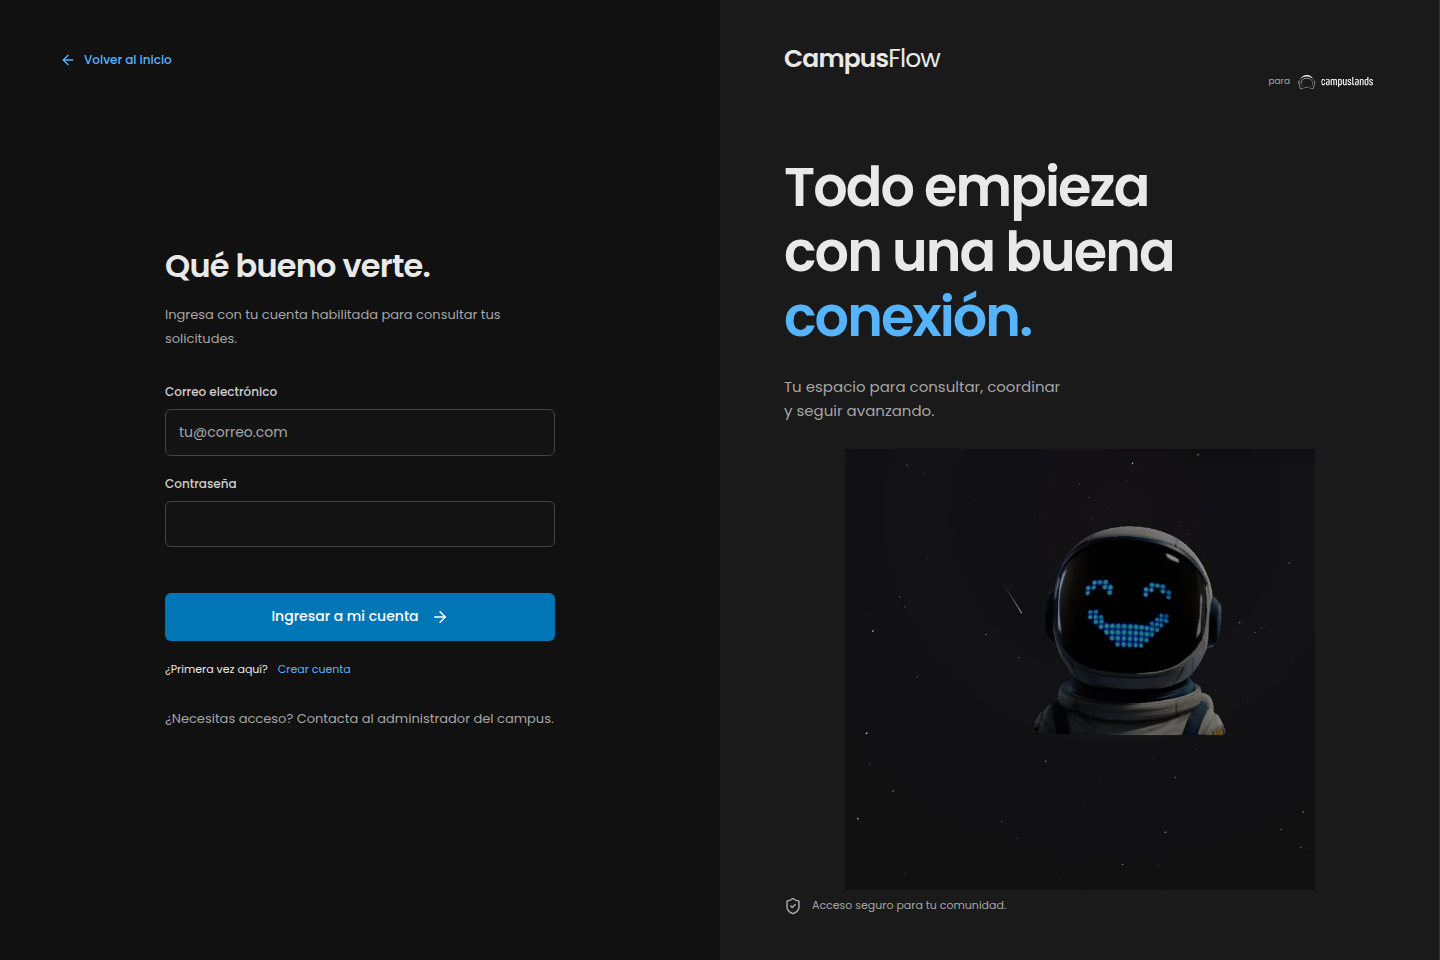
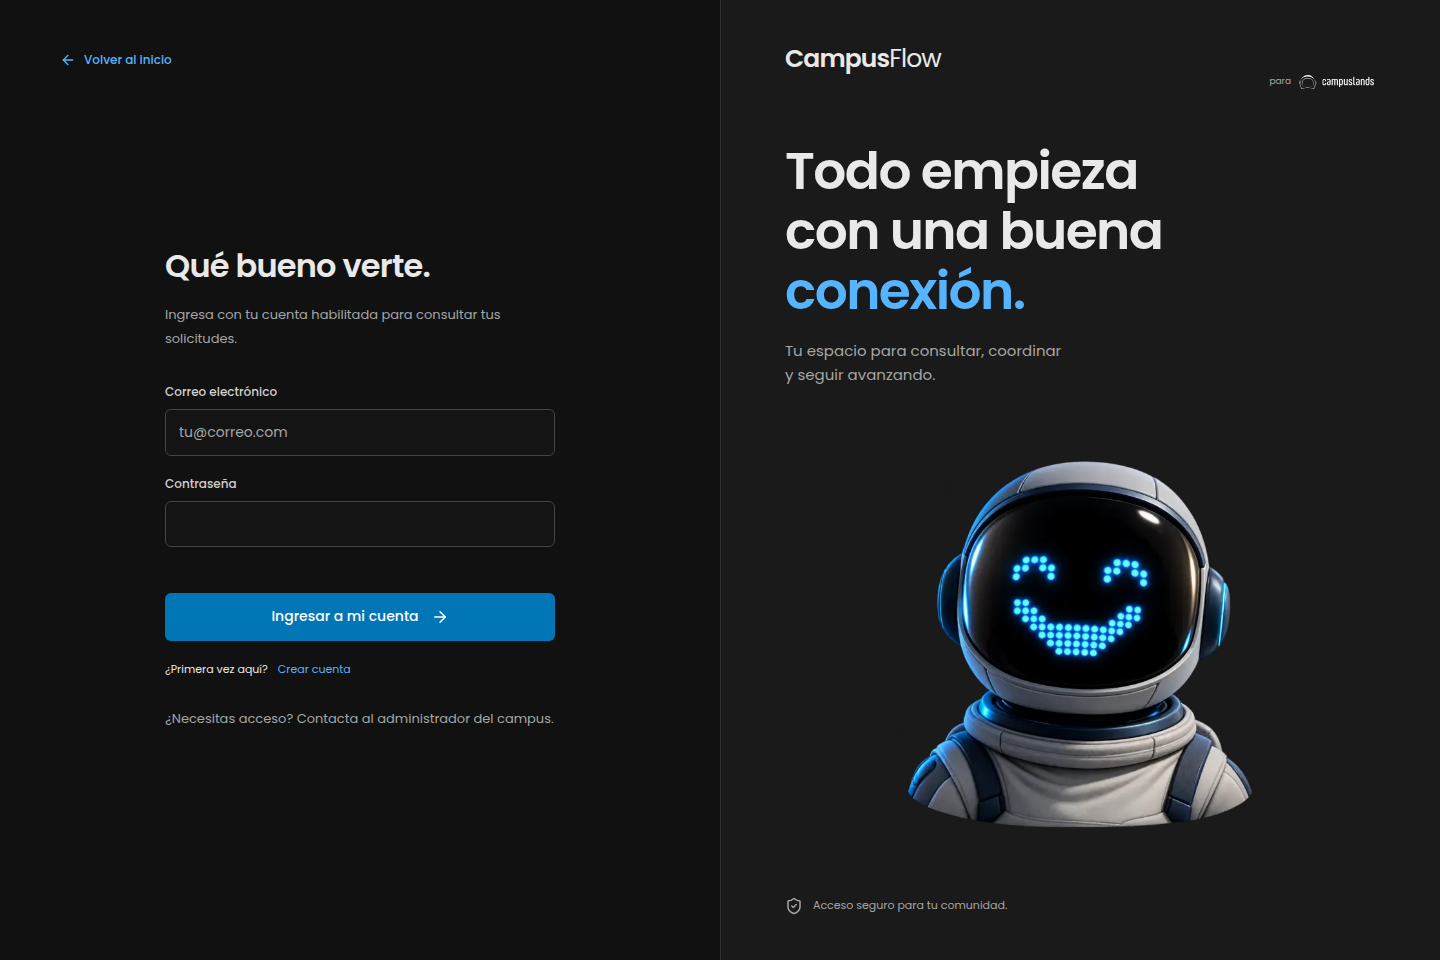
fix(web): ✨ integra robot editado y transparente en el login

diff --git a/apps/web/src/app/globals.css b/apps/web/src/app/globals.css
@@ -1208,13 +1208,14 @@ form > .button {
   display: flex;
   flex-direction: column;
   justify-content: space-between;
-  gap: 50px;
-  border-right: 1px solid var(--border);
+  gap: 28px;
+  border-left: 1px solid var(--border);
 }
 .auth-aside h1 {
-  font-size: 54px;
-  line-height: 1.2;
-  margin-bottom: 25px;
+  font-size: clamp(38px, 3.6vw, 52px);
+  line-height: 1.16;
+  margin-bottom: 18px;
+  letter-spacing: -0.03em;
 }
 .auth-aside h1 span {
   color: var(--accent);
@@ -2381,16 +2382,26 @@ form > .button {
     flex-wrap: wrap;
   }
 }
+.auth-art {
+  display: grid;
+  place-items: center;
+  flex: 1;
+  min-height: 250px;
+  margin: -12px -16px;
+}
 .auth-robot {
-  width: min(100%, 470px);
-  height: auto;
-  object-fit: contain;
   display: block;
-  margin: -40px auto -60px;
+  width: min(100%, 460px);
+  height: auto;
+  max-height: 43dvh;
+  object-fit: contain;
 }
 .auth-aside {
   order: 2;
   overflow: hidden;
+}
+.auth-copy {
+  margin-top: 24px;
 }
 .auth-main {
   order: 1;
@@ -2458,9 +2469,23 @@ form > .button {
     flex-direction: column;
     gap: 16px;
   }
+}
+@media (max-width: 640px) {
+  .auth-aside {
+    display: grid;
+    grid-template-columns: minmax(0, 1fr) 128px;
+    align-items: center;
+    gap: 12px;
+    padding: 20px 24px;
+    border-left: 0;
+  }
+  .auth-art {
+    min-height: 0;
+    margin: 0;
+  }
   .auth-robot {
-    margin: 0 auto;
-    max-width: 260px;
+    width: 128px;
+    max-height: 128px;
   }
 }
 .incident-follow-up {

diff --git a/apps/web/src/app/login/page.tsx b/apps/web/src/app/login/page.tsx
@@ -1,4 +1,5 @@
 import { ArrowLeft, ShieldCheck } from "lucide-react";
+import Image from "next/image";
 import Link from "next/link";
 import { Brand } from "@/components/brand";
 import { LoginForm } from "@/components/login-form";
@@ -7,7 +8,7 @@ export default function Login() {
     <main id="contenido" className="auth-page">
       <div className="auth-aside">
         <Brand />
-        <div>
+        <div className="auth-copy">
           <h1>
             Todo empieza
             <br />
@@ -20,13 +21,17 @@ export default function Login() {
             <br />y seguir avanzando.
           </p>
         </div>
-        <img
-          className="auth-robot"
-          src="/brand/campus-robot.webp"
-          width={913}
-          height={857}
-          alt="Robot astronauta con una sonrisa azul, referencia de Campuslands"
-        />
+        <figure className="auth-art">
+          <Image
+            className="auth-robot"
+            src="/brand/campus-robot-login.webp"
+            width={840}
+            height={840}
+            sizes="(max-width: 640px) 128px, (max-width: 1150px) 400px, 460px"
+            preload
+            alt="Robot astronauta con una sonrisa azul, referencia de Campuslands"
+          />
+        </figure>
         <p className="auth-trust">
           <ShieldCheck size={18} /> Acceso seguro para tu comunidad.
         </p>

diff --git a/apps/web/DESIGN.md b/apps/web/DESIGN.md
@@ -252,3 +252,8 @@ Dos secciones desplegables mantienen evidencia y conversación dentro de cada re
 - Don't convertir las etiquetas auxiliares muy pequeñas observadas en una escala obligatoria para nuevas superficies.
 
 No canonizado ni reparado en este registro: tamaños auxiliares de 9–10px, que requieren evaluación por contexto antes de reutilizarse; ausencia histórica de spec/gates comp-led, que es una limitación de evidencia y no un token. Los avisos de especificidad CSS son deuda existente, no una regla visual. El detector actual también informa valores de color y tipo fuera del frontmatter; se registran como advisories sin convertir cada excepción en token normativo. Este pase modifica documentación y no regenera el sidecar: sus muestras previas de tarjeta, profundidad y breakpoints requieren sincronización con este refinamiento.
+
+
+## Refinamiento del robot del login
+
+La imagen original permanece como fuente. El login utiliza campus-robot-login.webp, edición de la referencia con image_gen: fondo transparente real, torso completo y luz azul contenida. No colocarla dentro de un bloque con fondo propio ni simular el recorte con máscaras geométricas. Next Image conserva proporción y alpha, con preload y sizes; el busto tiene presencia amplia en escritorio y se compacta a 128 px junto a la marca bajo 640 px. Formulario y comportamiento Auth permanecen iguales. Capturas verificadas a 1033×900 y 390×844; build, typecheck y cuatro pruebas Playwright aprobados. Procedencia: docs/robot-image-provenance.json.

diff --git a/docs/verification.md b/docs/verification.md
@@ -43,3 +43,8 @@ Documentación reproducible: docs/GETTING_STARTED.md y docs/TESTING.md. Neural R
 ### Ajuste tras CI sin credenciales
 
 CI detectó que /portal, sin configurar Supabase, mostraba el shell desconectado en vez de redirigir. Se unificó el acceso: sin cliente Auth o sin sesión, redirige a /login, donde el estado sin configuración ya deshabilita credenciales. No se omitió ni relajó el test de protección del portal. Requiere consultar el siguiente resultado remoto de CI.
+
+
+### Robot integrado en login
+
+Imagen editada mediante image_gen a alpha real; WebP de 840×840 conserva cuatro canales. Nueva composición responsiva verificada a 1033×900 y 390×844. Build web, typecheck y cuatro Playwright enfocados (login y navegación desktop/móvil) aprobados. Revisión independiente acotada: ship, sin defectos materiales. Solo cambia presentación; no se modifican credenciales, Auth ni reglas.

diff --git a/docs/assets/README.md b/docs/assets/README.md
@@ -9,3 +9,5 @@
 Capturas tomadas el 16 de octubre de 2026. Datos observados de prueba; no representan métricas institucionales. No contienen contraseñas, tokens ni cookies. Los comandos públicos reproducibles están en README.md; las pantallas privadas requieren iniciar sesión legítimamente y revisar que no haya información sensible antes de versionar una captura.
 
 - `neural-routing.webp`: imagen de presentación del grupo aportada por el usuario el 16/10/2026, convertida PNG → WebP con Sharp. Contiene lemas conceptuales; no usarla como evidencia de entrenamiento ML ni como diagrama técnico.
+
+Actualización login: las capturas login-desktop/login-mobile ahora muestran el robot editado con transparencia (1440×960 y 390×844). Original conservado en public/brand/campus-robot.webp; derivado y prompt documentados en docs/robot-image-provenance.json.
